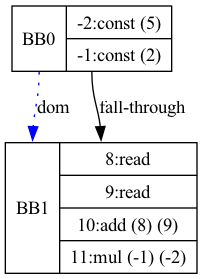
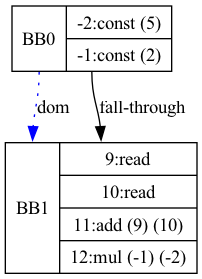
todo - fix previous error still (we want to include [func]'s idents as [funcName_ident] in [res/varVals3]; todo - test more funcDecl's &&[start FUNCCALLS]; todo - don't forget still need to [valgrind]; resolved - merged [const] for all func's and main (before - if add() contained const[-2] and main 

diff --git a/src/Parser.cpp b/src/Parser.cpp
@@ -264,16 +264,16 @@ void Parser::p_funcDecl(bool retVal) {
     #endif
     
     // [11.22.2024]: create a new [Parser] object for this [func] starting from our currend position in the [Result] tokens
-    Parser *f1 = new Parser(subset, true, true, f);
+    Parser *p = new Parser(subset, true, true, f);
     
-    f1->p2_funcStart(f);
+    p->p2_funcStart(f);
 
-    // [11.25.2024]: update [this->s_idx] if needed (after parsing [funcDecl()] in [Parser::f1])
-    // if (this->s_index < f1->getS_idx()) { // this condition should always be true since we assume there is a [funcDecl] to parse
+    // [11.25.2024]: update [this->s_idx] if needed (after parsing [funcDecl()] in [Parser::p])
+    // if (this->s_index < p->getS_idx()) { // this condition should always be true since we assume there is a [funcDecl] to parse
     #ifdef DEBUG
-        std::cout << "after [Parser::f1] parse, [this->s_idx(" << this->s_index << ", " << this->sym.to_string() << "), f1->getS_idx(" << f1->getS_idx() << ", " << f1->getSym().to_string() << ")]" << std::endl;
+        std::cout << "after [Parser::p] parse, [this->s_idx(" << this->s_index << ", " << this->sym.to_string() << "), p->getS_idx(" << p->getS_idx() << ", " << p->getSym().to_string() << ")]" << std::endl;
     #endif
-    this->s_index += f1->getS_idx() - 1;
+    this->s_index += p->getS_idx() - 1;
     this->sym = this->source.at(this->s_index++);
     // }
     #ifdef DEBUG
@@ -283,7 +283,9 @@ void Parser::p_funcDecl(bool retVal) {
     this->CheckFor(Result(2, 4)); // check for `;` token
 
     SymbolTable::func_table.insert({ident, f});
-    Parser::funcMap.insert({f, f1});
+    Parser::funcMap.insert({f, p});
+
+    this->updateConstBlk(p);
 }
 
 SSA* Parser::p_statSeq() {
@@ -779,26 +781,10 @@ SSA* Parser::p_funcCall() {
             } else {
                 try {
                     // [10/09/2024]: Can't modify constVal SSA call
-                    SSA *tmp = new SSA(0, num);
-                    res = this->addSSA1(tmp, true);
-                    if (res != tmp) {
-                        delete tmp;
-                        tmp = nullptr;
-                    }
+                    res = this->addSSA1(0, num, true);
 
                     // tmp = new SSA(24, res);
-                    res = this->addSSA1(24, res, nullptr);
-                    // if (res != tmp) {
-                    //     delete tmp;
-                    //     tmp = nullptr;
-                    // }
-                    
-                    // res = this->CheckConstExistence(num);
-                    // // [09/27/2024]: then add to basicblock
-                    // if (!res) {
-                    //     // [09/27/2024]: if [const-SSA] dne, create & return it [addSSA()]; use that as argument for [write-SSA]
-                    //     res = this->addSSA(new SSA(24, this->addSSA(new SSA(0, num))));
-                    // }
+                    res = this->addSSA1(24, res, nullptr); 
                 } catch(...) {
                     std::cout << "could not recognize identifier corresponding to: [" << num << "]; exiting prematurely..." << std::endl;
                     exit(EXIT_FAILURE);
@@ -905,9 +891,7 @@ SSA* Parser::p2_funcCall() {
             } else {
                 try {
                     // [10/09/2024]: Can't modify constVal SSA call
-                    SSA *tmp = new SSA(0, num);
-                    res = this->addSSA1(tmp, true);
-                    tmp = nullptr;
+                    res = this->addSSA1(0, num, true);
 
                     // tmp = new SSA(24, res);
                     res = this->addSSA1(24, res, nullptr);
@@ -1667,11 +1651,7 @@ SSA* Parser::p_factor() {
         #ifdef DEBUG
             std::cout << "\tgot [const], checking existence in [this->instrList]" << std::endl;
         #endif
-        SSA *tmp = new SSA(0, this->sym.get_value_literal());
-        res = this->addSSA1(tmp, true);
-
-        // [10.23.2024]: it'll get handled, & either way we won't need tmp anymore so assigning it to [nullptr] is fine here
-        tmp = nullptr; 
+        res = this->addSSA1(0, this->sym.get_value_literal(), true);
         next(); // [08/05/2024]: we can consume the [const-val]?
     } else if (this->sym.get_kind_literal() == 1) { // check [ident]
         // [11.25.2024]: modified to handle [func]'s ident if exists

diff --git a/src/Parser.hpp b/src/Parser.hpp
@@ -321,10 +321,41 @@ public:
         }
     }
 
+    // [11.29.2024]: created [addSSA1()] for const
+    inline SSA* addSSA1(int op, int val, bool check = false) {
+        // [10.23.2024]: Assume addSSA1() handles deletion properly...
+        if (op != 0) {
+            std::cout << "addSSA1() overload expected constVal" << std::endl;
+            exit(EXIT_FAILURE);
+        }
+        SSA *tmp = new SSA(op, val);
+        SSA *res = this->addSSA1(tmp, check);
+        
+        // #ifdef DEBUG
+        //     std::cout << "in addSSA1(const) returned from [addSSA1()] with val: " << res->toString() << std::endl;
+        //     std::cout << "tmp looks like: ";
+        //     if (tmp) {
+        //         std::cout << tmp->toString() << std::endl;
+        //     } else {
+        //         std::cout << "nullptr!" << std::endl;
+        //     }
+        // #endif
+        // if (tmp && tmp->compare(res) == false) {
+        //     delete tmp;
+        // }
+
+        tmp = nullptr;
+        return res;
+    }
+
     inline SSA* addSSA1(int op, SSA *x = nullptr, SSA *y = nullptr, bool check = false) {
         // [10.23.2024]: Assume addSSA1() handles deletion properly...
         SSA *tmp = new SSA(op, x, y);
         SSA *res = this->addSSA1(tmp, check);
+
+        // if (tmp && tmp->compare(res) == false) {
+        //     delete tmp;
+        // }
         
         tmp = nullptr;
         return res;
@@ -605,7 +636,35 @@ public:
         return false;
     }
 
-    inline std::vector<SSA*> getSSA() const { return this->SSA_instrs; }
+    // [11/28/2024]: adds SSA_instrs from other [func]'s into main Parser's SSA_instrs
+    // - this function is only called in [Parser::getSSA()]
+    void updateSSA_instrs() {
+        if (!this->isFunc) {
+            for (const auto &f : this->funcMap) {
+                std::vector<SSA*> currInstrs = f.second->getSSA();
+                #ifdef DEBUG
+                    std::cout << "got currInstrs for func [" << f.first->getName() << "] with size[" << currInstrs.size() << "]" << std::endl;
+                #endif
+                for (SSA *instr : currInstrs) {
+                    #ifdef DEBUG
+                        std::cout << "pushing instr [" << instr->toString() << "] into [this->SSA_instrs]" << std::endl;
+                    #endif
+                    // [11.28.2024]: segfaulting here
+                    // - there's no way difff func's would use the same SSA? i lie but will ther be dupes here if we dont' check for existence?
+                    // if (std::find(this->SSA_instrs.begin(), this->SSA_instrs.end(), instr) == this->SSA_instrs.end()) {
+                    //     this->SSA_instrs.push_back(instr);
+                    // }
+                    this->SSA_instrs.push_back(instr);
+                }
+            }
+        }
+    }
+
+    // [11.28.2024]: this function is only called once in [main.cpp] after parsing to geneerate resuilt file
+    inline std::vector<SSA*> getSSA() { 
+        this->updateSSA_instrs();
+        return this->SSA_instrs; 
+    }
 
     // [09/30/2024]: Converts to original varVal mapping from [this->VVs]
     std::unordered_map<std::string, SSA*> getVarVal() const { 
@@ -884,7 +943,7 @@ public:
 
             std::string fileName = "DOT";
             if (p->isFunc) {
-                fileName = f->getName() + "_" + fileName;
+                fileName += "_" + f->getName();
             }
 
             #ifdef DEBUG
@@ -986,6 +1045,19 @@ public:
         }
         // [11.26.2024]: will-this-work / is-this-necessary?
         Parser::funcMap.clear();
+    }
+
+    // [11.29.2024]: called after each func to check & add new CONST-SSA to main-BB0
+    inline void updateConstBlk(Parser *p) {
+        LinkedList *toAdd = p->BB0->constList;
+        Node *curr = toAdd->tail;
+
+        while (curr) {
+            if (this->BB0->constList->contains(curr->instr) == nullptr) {
+                this->BB0->constList->InsertAtTail(curr->instr);
+            }
+            curr = curr->prev;
+        }
     }
 
     SSA* p_start();

diff --git a/main.cpp b/main.cpp
@@ -154,6 +154,9 @@ int main() {
 
     parser2.generateMainDOT();
     parser2.generateFuncDOTS();
+    #ifdef DEBUG
+        std::cout << "done generating main && funcDOTS" << std::endl;
+    #endif
 
     std::vector<SSA*> SSA_instrs2 = parser2.getSSA();
     bool SSA_exists2 = fr.write_file_contents(parser2_f, SSA_instrs2, "SSA Instructions");
